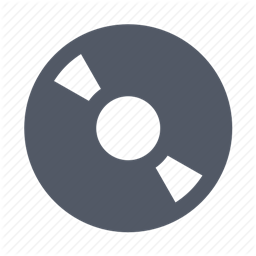
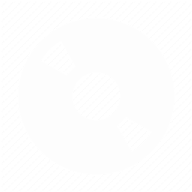
release v1.4

diff --git a/main.py b/main.py
@@ -121,22 +121,24 @@ class MusicPlayer(ThemedTk):
 		self.pathtoggle=Button(self, image=self.explorer_icon, bg='grey22', relief=FLAT, width=500, height=50, command=self.toggleplaylist)
 		self.nowmusictoggle=Button(self, image=self.music_icon, bg='grey30', relief=FLAT, width=500, height=50, command=self.toggleplaylist)
 		self.currentvolume=Label(self,bg='grey22',fg='grey88', relief=FLAT, text='100')
-		self.songname=Label(self,bg='grey22',fg='grey88', relief=FLAT, text='Name: - ',font=('Arial',13))
-		self.artistname=Label(self,bg='grey22',fg='grey88', relief=FLAT, text='Artist: - ',font=('Arial',13))
-		self.albumname=Label(self,bg='grey22',fg='grey88', relief=FLAT, text='Album: - ',font=('Arial',13))
-		self.discicon=Button(image=self.disc_icon, bg='grey22', relief=FLAT)
+		self.songname=Label(self,bg='grey22',fg='grey88', relief=FLAT, text='',font=('Arial',30, 'bold'))
+		self.artistname=Label(self,bg='grey22',fg='grey88', relief=FLAT, text='',font=('Arial',13))
+		self.albumname=Label(self,bg='grey22',fg='grey88', relief=FLAT, text='',font=('Arial',13))
+		self.discicon=Button(image=self.disc_icon, bg='grey30', relief=FLAT)
 		#widget binding
 		self.playlist.bind('<Button-1>', self.playlistclick)	
 		self.playlist.bind('<Double-Button-1>', self.playlistdoubleclick)
 		#24/7 threading
+		self.automusicslider.daemon = True
+		self.musicloop.daemon = True
 		self.automusicslider.start()
 		self.musicloop.start()
 
 	def _layout(self):
 		#widget placement
-		self.songname.place(relx=0.5, rely=0.35)
-		self.artistname.place(relx=0.5, rely=0.45)
-		self.albumname.place(relx=0.5, rely=0.55)
+		self.songname.place(relx=0.25, rely=0.47)
+		self.artistname.place(relx=0.25, rely=0.59)
+		self.albumname.place(relx=0.25, rely=0.67)
 		self.play_pause_button.place(relx=0.5, rely=0.85, anchor=CENTER)
 		self.repeat_button.place(relx=0.4, rely=0.85, anchor=CENTER)
 		#self.shuffle_button.place(relx=0.6, rely=0.85, anchor=CENTER)
@@ -150,7 +152,7 @@ class MusicPlayer(ThemedTk):
 		self.pathtoggle.place(relx=0.0, rely=0.0)
 		self.nowmusictoggle.place(relx=0.5, rely=0.0)
 		self.currentvolume.place(relx=0.95, rely=0.85)
-		self.discicon.place(relx=0.15, rely=0.25)
+		self.discicon.place(relx=0.04, rely=0.44)
 
 
 	def playlistclick(self, event):
@@ -205,25 +207,33 @@ class MusicPlayer(ThemedTk):
 			self.songmins=str(self.songmins).zfill(2)
 			self.songsecs=str(self.songsecs).zfill(2)
 			self.progress_label_2.config(text=str(self.songmins)+':'+str(self.songsecs))
-			self.songname.config(text='Song: ' + self.songinfo['TIT2'].text[0])
-			self.artistname.config(text='Artist: ' + self.songinfo['TPE1'].text[0])
-			self.albumname.config(text='Album: ' + self.songinfo['TALB'].text[0])
+			try:
+				self.songname.config(text=self.songinfo['TIT2'].text[0])
+				self.artistname.config(text=self.songinfo['TPE1'].text[0])
+				self.albumname.config(text=self.songinfo['TALB'].text[0])
+			except:
+				self.songname.config(text=self.currentsong)
+				self.artistname.config(text='failed to read metadata')
+				self.albumname.config(text='failed to read metadata')
 			
 
 		if self.currentsong.endswith('.flac') == True:
-			#self.song=FLAC(self.currentsong)
-			#self.songinfo=ID3(self.currentsong)
-			#self.songpict = self.songinfo.get("APIC:").data
-			#self.songlength=self.song.info.length
-			#self.songround=round(self.songlength)
-			#self.songmins, self.songsecs= divmod(self.songround, 60)
-			#self.songsecs=str(self.songsecs).zfill(2)
-			#self.progress_label_2.config(text=str(self.songmins)+':'+str(self.songsecs))
-			#self.music_player_scale.config(from_ = 0,to = self.songlength)
-			#self.songname.config(text='Song: ' + self.songinfo['TIT2'].text[0])
-			#self.artistname.config(text='Artist: ' + self.songinfo['TPE1'].text[0])
-			#self.albumname.config(text='Album: ' + self.songinfo['TALB'].text[0])
-			pass
+			self.song=FLAC(self.currentsong)
+			self.songlength=self.song.info.length
+			self.songround=round(self.songlength)
+			self.songmins, self.songsecs= divmod(self.songround, 60)
+			self.songmins=str(self.songmins).zfill(2)
+			self.songsecs=str(self.songsecs).zfill(2)
+			self.progress_label_2.config(text=str(self.songmins)+':'+str(self.songsecs))
+			self.music_player_scale.config(from_ = 0,to = self.songlength)
+			try:
+				self.songname.config(text=self.song['TITLE'])
+				self.artistname.config(text=self.song['ARTIST'])
+				self.albumname.config(text=self.song['ALBUM'])
+			except:
+				self.songname.config(text=self.currentsong)
+				self.artistname.config(text='failed to read metadata')
+				self.albumname.config(text='failed to read metadata')			
 
 		if self.currentsong.endswith('.ogg') == True:
 			self.song=WAVE(self.currentsong)
@@ -251,6 +261,7 @@ class MusicPlayer(ThemedTk):
 			if self.progress_label_1['text']=='-1:59':
 				self.progress_label_1.config(text='00:00')
 			self.currentsongpos=int(self.currenttime)/int(self.songlength)
+			print(self.currentsongpos)
 			self.music_player_scale.set(self.currentsongpos)
 
 			time.sleep(1)	
@@ -302,9 +313,7 @@ class MusicPlayer(ThemedTk):
 			if pygame.mixer.music.get_busy() == False and self.repeat_button.cget('bg') == 'grey50':
 				pygame.mixer.music.play()
 			else:
-				for event in pygame.event.get():
-					if event.type == 'MUSIC_END':
-						print('music end event')
+				pass
 			time.sleep(1)
 
 	def play_pause(self):
@@ -401,7 +410,7 @@ class MusicPlayer(ThemedTk):
 		try:
 			os.chdir(path)
 			songs=os.listdir()
-			filteredsongs=filter(lambda x: x.endswith(('.mp3', '.wav')), songs)
+			filteredsongs=filter(lambda x: x.endswith(('.mp3', '.flac')), songs)
 			self.pathname.config(text = 'Selected path: ' + path) 
 			for s in filteredsongs:
 				self.playlist.insert(END,s)
@@ -411,13 +420,10 @@ class MusicPlayer(ThemedTk):
 	def ask_quit(self):
 		if mixer.music.get_busy() == False:
 			root.destroy()
-			os.system('taskkill /f /im python.exe')
 			
 		elif askokcancel("Exit", "Stop Music?"):
 			mixer.music.stop()
-			root.destroy()
-			os.system('taskkill /f /im python.exe')
-	
+			root.destroy()	
 	
 
 if __name__ == '__main__':
